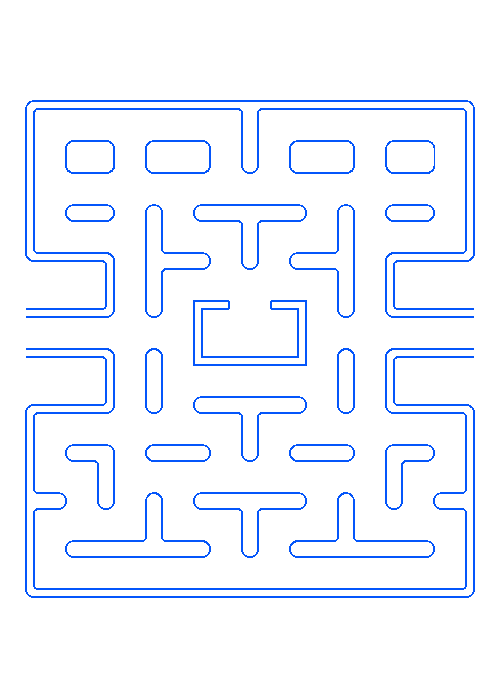
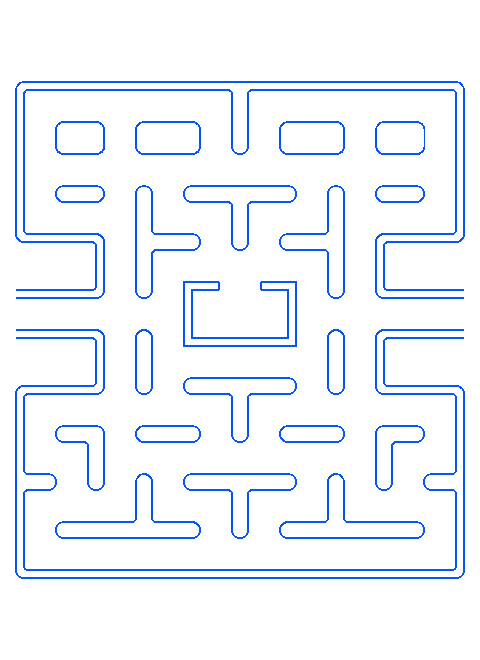
updated map to display better

diff --git a/app/views/index.html b/app/views/index.html
@@ -21,10 +21,10 @@
         <img id="arrowKey" src="/img/arrowKey.png">
 
       </div>
-      <canvas id="pac-fixed" class="gamewindow" width="600" height="720"></canvas>
-      <canvas id="pac-ui" class="gamewindow" width="600" height="720"></canvas>
-      <canvas id="pac-animate" class="gamewindow" width="600" height="720"></canvas>
-      <div id="maze"></div>
+      <canvas id="pac-fixed" class="gamewindow" width="600" height="740"></canvas>
+      <canvas id="pac-ui" class="gamewindow" width="600" height="740"></canvas>
+      <canvas id="pac-animate" class="gamewindow" width="600" height="740"></canvas>
+      <div class="maze"></div>
     </div>
 
     <script>

diff --git a/app/public/css/main.css b/app/public/css/main.css
@@ -8,8 +8,9 @@ body {
 }
 
 #game {
+    padding-top: -top: 20px;
     width: 600px;
-    height: 720px;
+    height: 740px;
     position: relative;
     margin: 0 auto;
     border: 2px solid blue;
@@ -34,7 +35,7 @@ h3 {
   position: absolute;
 }
 
-#maze {
+.maze {
   background-image: url("../img/maze.png");
   background-size: cover;
   background-repeat: no-repeat;
@@ -42,7 +43,7 @@ h3 {
   bottom: 45px;
   width: 600px;
   height: 720px;
-  z-index: 0;
+
 }
 
 #starting_screen {

diff --git a/app/public/js/lib/game.js b/app/public/js/lib/game.js
@@ -98,9 +98,9 @@ Game.prototype = {
   },
   gameOver: function() {
     if (this.bodies.foods.length === 0) {
-      alert('Congratulations. A Winner is you!!!!!!');
+      // alert('Congratulations. A Winner is you!!!!!!');
     } else {
-      alert('You are a victim of random behaviour. Predictable. Drop Mic.');
+      // alert('You are a victim of random behaviour. Predictable. Drop Mic.');
     }
   }
 };

diff --git a/app/public/js/lib/lives.js b/app/public/js/lib/lives.js
@@ -1,6 +1,6 @@
 var Lives = function(x, y, tileSize) {
   this.remaining = 3;
-  this.font = '20px pacfont';
+  this.font = '18px pacfont';
   this.color = 'white';
   this.posX = x * tileSize;
   this.posY = y * tileSize;
